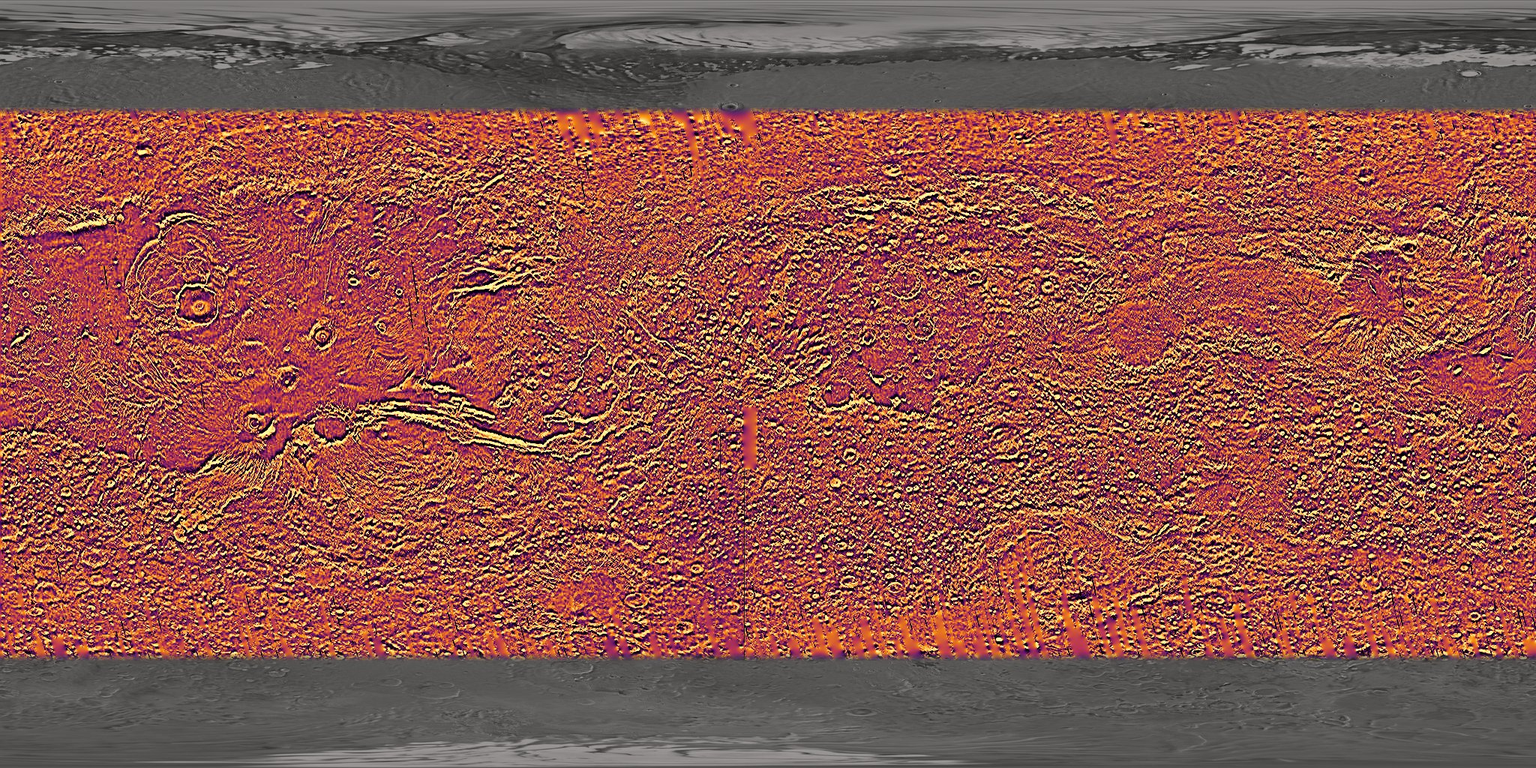
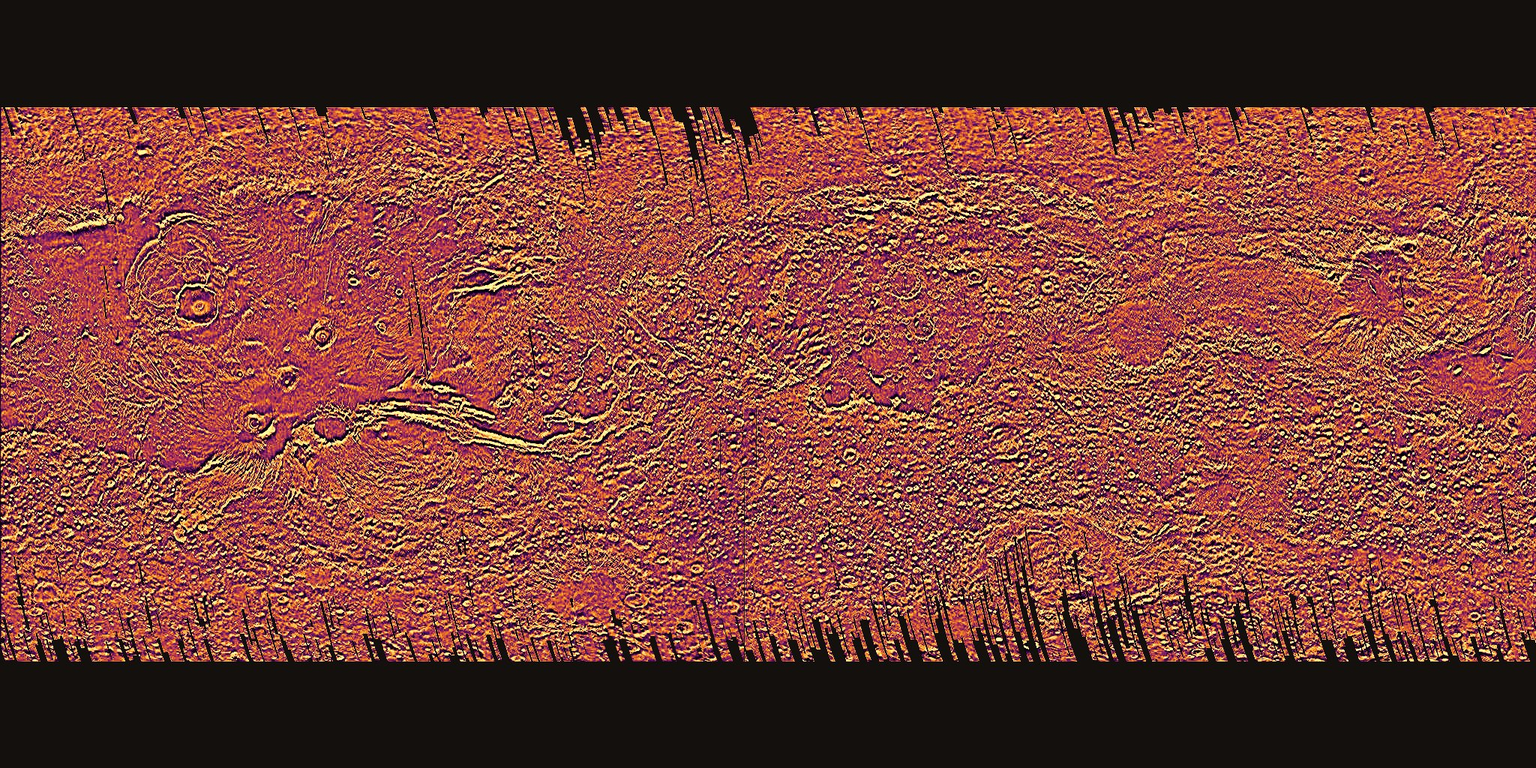
Globe thermal: authentic THEMIS only (no interpolation, no gray poles); missing night overview block rebuilt from higher-zoom THEMIS tiles

diff --git a/index.html b/index.html
@@ -196,7 +196,7 @@ header .hb{white-space:nowrap}header nav button{white-space:nowrap}
   </ul>
   <h4>Real NASA data shown</h4>
   <ul>
-    <li><b>Whole-planet textures (globe and map background)</b>: Viking MDIM 2.1 color mosaic; MGS MOLA global DEM (128/64 ppd merge) colored by real height; Mars Odyssey THEMIS day and night IR global mosaics (THEMIS covers 65°S–65°N; the poles are shown in gray Basic imagery because there is no thermal data there. Thin orbit gaps are filled from neighbouring pixels, and an empty block in the night overview tiles, 45°W–0° / 0–65°S, was rebuilt from the higher-zoom tiles). All via JPL Mars Trek. The 3D globe is rendered with three.js.</li>
+    <li><b>Whole-planet textures (globe and map background)</b>: Viking MDIM 2.1 color mosaic; MGS MOLA global DEM (128/64 ppd merge) colored by real height; Mars Odyssey THEMIS day and night IR global mosaics (THEMIS covers 65°S–65°N; the poles and thin orbit gaps have no data and stay dark. An empty block in the night overview tiles, 45°W–0° / 0–65°S, was rebuilt from the same mosaic's higher-zoom tiles). All via JPL Mars Trek. The 3D globe is rendered with three.js.</li>
     <li><b>Elevation</b>: MOLA + HRSC blended DEM (200 m, overview and Jezero); MRO HiRISE DEM of Gale (1 m, resampled); MRO HiRISE 1 m DEM of the Columbia Hills (Mars Trek <code>DEM_1m_ColumbiaHills</code>, Float32 values, resampled to ~10 m). Colors and the readout show heights in meters relative to the Mars datum.</li>
     <li><b>Thermal</b>: Mars Odyssey THEMIS day and night infrared mosaics (100 m). Brightness is relative surface temperature, not calibrated °C. At night rock and bedrock stay warm (bright) and dust and sand cool fast (dark).</li>
     <li><b>Basic</b>: MRO HiRISE (Curiosity and Spirit roving-site mosaics, controlled Jezero mosaic over CTX), Viking MDIM 2.1 color mosaic (overview). All via JPL Mars Trek.</li>
@@ -363,7 +363,7 @@ function unitsInView(){if(typeof geoAt!=='function')return [];const b=map.getBou
 function renderLegend(){const g=META[VIEWS[view].grid];let h='';
   if(base==='elev'){const gg=isReg(view)?META.global:g;const lo=(gg.leg||[gg.lo])[0],hi=(gg.leg||[0,gg.hi])[1],mid=(lo+hi)/2;h=`<div class="bar" style="background:${META.ramps.elev}"></div><div class="ticks"><span>${Math.round(lo)}</span><span>${Math.round(mid)}</span><span>${Math.round(hi)} m</span></div><div class="lg">Real height above the Mars datum${isReg(view)?' (white ≥ 12 km: Tharsis volcanoes up to 21 km)':''}. Color range ${Math.round(hi-lo).toLocaleString('en')} m. Hover the map for exact values.</div>${elevBox()}<div class="src">${view==='curiosity'?'MRO HiRISE DEM of Gale crater':view==='spirit'?'HiRISE 1 m DEM, Columbia Hills':isReg(view)?'MGS MOLA global DEM (whole planet) + MOLA/HRSC 200 m (mission region)':'MOLA + HRSC blended DEM, 200 m'}</div>`}
   else if(base==='therm'&&therm==='ti'){h=`<div class="seg2"><button data-t="tday">Day IR</button><button data-t="tnight">Night IR</button><button data-t="ti" class="on">Inertia</button></div><div class="bar" style="background:${TI_RAMP}"></div><div class="ticks"><span>25</span><span>200</span><span>400</span><span>600</span></div><div class="lg"><b style="color:var(--ink)">Thermal inertia</b> (J m⁻² K⁻¹ s⁻½): how well the ground stores heat. Low = fine dust that heats and freezes fast; high = rock that stays warmer at night. Hover for the value.<div class="tic"><span><i style="background:#6a2cff"></i>&lt;100 dust</span><span><i style="background:#2bd1ff"></i>100–250 sand</span><span><i style="background:#9cea05"></i>250–400 coarse sand, crust, rocks</span><span><i style="background:#ff4a10"></i>&gt;400 rock / bedrock</span></div></div><div class="src">MGS TES global thermal inertia (~3 km data, 8 px/°) via Mars Trek · values read from the published color scale</div>${tempBox()}`}
-  else if(base==='therm'){h=`<div class="seg2"><button data-t="tday" class="${therm==='tday'?'on':''}">Day IR</button><button data-t="tnight" class="${therm==='tnight'?'on':''}">Night IR</button><button data-t="ti">Inertia</button></div><div class="bar" style="background:${META.ramps.thermal}"></div><div class="ticks"><span>colder</span><span>warmer</span></div><div class="lg">${therm==='tnight'?'At night <b style="color:var(--ink)">bright = rock / bedrock</b> (holds heat, firm ground); <b style="color:var(--ink)">dark = dust or sand</b> (soft, cools fast).':'By day, sun-facing slopes and dark surfaces warm up most.'}</div><div class="src">Mars Odyssey THEMIS IR mosaic, 100 m · relative brightness (not calibrated °C). THEMIS covers 65°S–65°N; gray poles = no thermal data. Real temperatures below.</div>${tempBox()}`}
+  else if(base==='therm'){h=`<div class="seg2"><button data-t="tday" class="${therm==='tday'?'on':''}">Day IR</button><button data-t="tnight" class="${therm==='tnight'?'on':''}">Night IR</button><button data-t="ti">Inertia</button></div><div class="bar" style="background:${META.ramps.thermal}"></div><div class="ticks"><span>colder</span><span>warmer</span></div><div class="lg">${therm==='tnight'?'At night <b style="color:var(--ink)">bright = rock / bedrock</b> (holds heat, firm ground); <b style="color:var(--ink)">dark = dust or sand</b> (soft, cools fast).':'By day, sun-facing slopes and dark surfaces warm up most.'}</div><div class="src">Mars Odyssey THEMIS IR mosaic, 100 m · relative brightness (not calibrated °C). THEMIS covers 65°S–65°N; dark poles and stripes = no data. Real temperatures below.</div>${tempBox()}`}
   else if(base==='geol'){const here=unitsInView();const U=c=>GEO.units.find(u=>u.code===c);
     h=`<div class="lg" style="margin-top:8px">Official USGS geologic units (age + origin). Hover the map for the unit, click for its description.${isReg(view)?'':' The 1:20M map is coarser than a rover site, so here it is a tint over the HiRISE image and boundaries are approximate (±2 km).'}</div><div class="lg" style="margin-top:6px;color:var(--ink)">Units in view${isReg(view)?' (largest first)':''}:</div><div class="gleg">${[...new Set(here)].map(c=>{const u=U(c);return `<div><i style="background:${u.c}"></i><b>${c}</b> ${u.name}</div>`}).join('')}</div><div class="lg" style="margin-top:6px">Unit code: first letter = age (<b style="color:var(--ink)">N</b>oachian &gt;3.7 Ga, <b style="color:var(--ink)">H</b>esperian 3.7–3.0 Ga, <b style="color:var(--ink)">A</b>mazonian &lt;3 Ga).</div><div class="src">USGS SIM 3292, Tanaka et al. 2014 (1:20M) · USGS-NASA Planetary Geologic Mapping Program</div>${minBox()}`}
   else h=`<div class="src" style="margin-top:9px">${isReg(view)?'Viking MDIM 2.1 color mosaic':view==='perseverance'?'MRO HiRISE (Jezero, controlled) over CTX':'MRO HiRISE orbital images (~0.25–1.5 m/px)'}</div>`;

diff --git a/tools/v11.py b/tools/v11.py
@@ -1,8 +1,8 @@
 # v11: fix black areas in the global THEMIS day/night IR textures used on the globe.
 #  - the night mosaic's overview tiles (zoom 2-3) are empty over 45W-0, 0-90S: rebuilt from zoom-4 tiles
-#    and zoom-5 tiles (THEMIS_NightIR_ControlledMosaics_100m_v2_oct2018, downsampled, brightness-matched) -> g_tnight_fixed.png
-#  - remaining thin orbit-gap streaks near +-60 deg: filled from neighbouring THEMIS pixels (diffusion inpainting)
-#  - poles (|lat| > 65 deg) are outside THEMIS coverage: shown as muted gray Basic (Viking) imagery = no thermal data
+#    and zoom-5/6 tiles (THEMIS_NightIR_ControlledMosaics_100m_v2_oct2018, downsampled, brightness-matched) -> g_tnight_fixed.png
+#  - everything else is authentic THEMIS only: real orbit gaps and the poles (|lat| > 65 deg, outside THEMIS coverage)
+#    stay as no-data (dark background), nothing is interpolated or substituted
 import numpy as np
 from PIL import Image
 from scipy import ndimage
@@ -20,15 +20,12 @@ def inpaint(f,known,it=300):
     idx=ndimage.distance_transform_edt(~known,return_distances=False,return_indices=True); f=f[tuple(idx)].copy()
     for _ in range(it): f2=ndimage.uniform_filter(f,3); f[~known]=f2[~known]
     return f
-ALPHA=np.load(D4+'themis_alpha.npy')   # exact no-data masks from the PNG tiles (zoom 3, plus zoom 4-5 under the empty block)
+ALPHA=np.load(D4+'themis_alpha.npy')   # exact no-data masks from the PNG tiles (zoom 3, plus zoom 4-6 under the empty block)
 for n,src,al in [('tday','g_tday.jpg',ALPHA[1]),('tnight','g_tnight_fixed.png',ALPHA[0])]:
     a=np.array(Image.open(D4+src).convert('L')).astype(float)
     gap=cov&(~al|(a<=3))
-    gap=ndimage.binary_dilation(gap,iterations=1)&cov
     m=cov&~gap
     vals=np.sort(a[m]); t=np.searchsorted(vals,a)/len(vals)
-    t=np.where(gap,inpaint(t,~gap),t)
-    out=ramp(t,INF); out[~cov]=G3[~cov]
-    edge=(np.abs(LAT)>63)&cov; w=((np.abs(LAT)-63)/2)[edge][:,None]; out[edge]=out[edge]*(1-w)+G3[edge]*w
+    out=ramp(t,INF); out[~(cov&~gap)]=(20,16,14)
     Image.fromarray(np.clip(out,0,255).astype(np.uint8)).save(S+f'img/global_{n}.jpg',quality=85)
-    print(n,'filled %.2f%% of the covered area'%(gap.sum()/cov.sum()*100))
+    print(n,'no-data %.2f%% of the covered area'%(gap.sum()/cov.sum()*100))

diff --git a/docs/DATA_PIPELINE.md b/docs/DATA_PIPELINE.md
@@ -33,7 +33,7 @@ Large binary data was moved out of the browser as gzip + base64 chunks and reass
 - **Spirit coordinates:** `CORRECTED_X/Y` in the MER notebook are meters in an equirectangular projection centred on 175.5°E, so `lon = 175.5 + X / 59275.06` and `lat = Y / 59275.06`.
 - **Spirit DEM:** rebuilt from the raw Float32 values of the Mars Trek `DEM_1m_ColumbiaHills` ImageServer (exported at ~5 m, block-averaged to the ~10 m grid). The earlier version used an 8-bit gray DEM that saturated on Husband and McCool Hills (a flat plateau at −1,871 m); the summit now correctly reaches about −1,859 m on Spirit's path.
 - **Slopes and no-go zones:** terrain slope is the gradient magnitude of each DEM grid (Gale ~30 m, Gusev ~10 m, Jezero ~19 m cells; Jezero is upsampled from the 200 m MOLA/HRSC blend, so its slopes are smoothed and likely underestimated). Cells steeper than 15° are drawn as red no-go hatching, and the safest routes (`tools/v8.py`) never enter them; they also stay 50 m outside every hazard zone.
-- **THEMIS global IR (globe and overview):** the night mosaic's overview tiles (zoom 2–3) are empty over 45°W–0°, 0–65°S, so that block was rebuilt from zoom-4/5 tiles and brightness-matched. Thin orbit gaps (exact no-data masks from the PNG tile alpha) are filled from neighbouring pixels, and the poles beyond 65° (outside THEMIS coverage) are shown as muted gray Basic imagery (`tools/v11.py`).
+- **THEMIS global IR (globe and overview):** the night mosaic's overview tiles (zoom 2–3) are empty over 45°W–0°, 0–65°S, so that block was rebuilt from the same mosaic's zoom-4 to zoom-6 tiles and brightness-matched. Nothing is interpolated: real orbit gaps and the poles beyond 65° (outside THEMIS coverage) stay dark as no-data (`tools/v11.py`).
 - **Elevation colors:** the overview and global layers share one range (−8,000 to +12,000 m), so colors match where they meet.
 - **No-data:** HiRISE no-data is masked, so lander zones never fall into image gaps.
 - **Resampling** uses PIL bicubic. Earlier scipy zoom output left a zero last column and was replaced.
